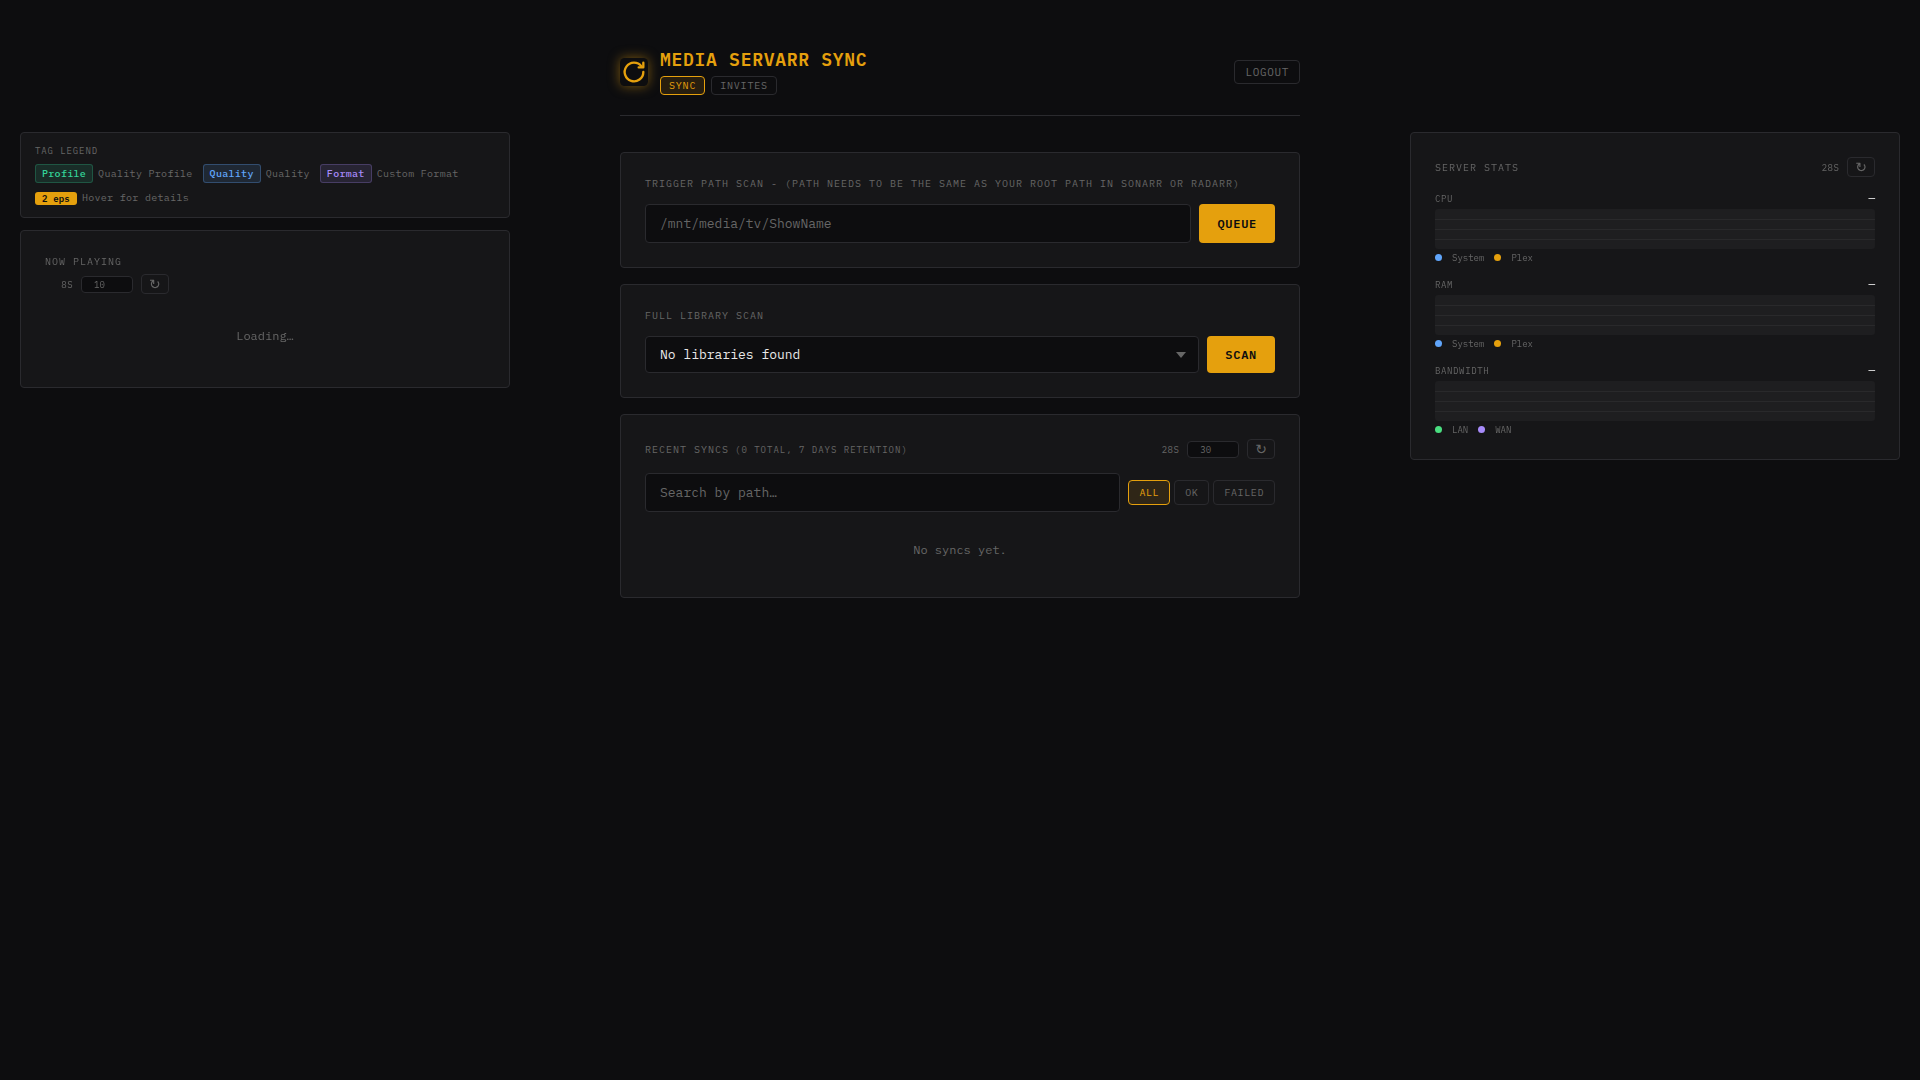
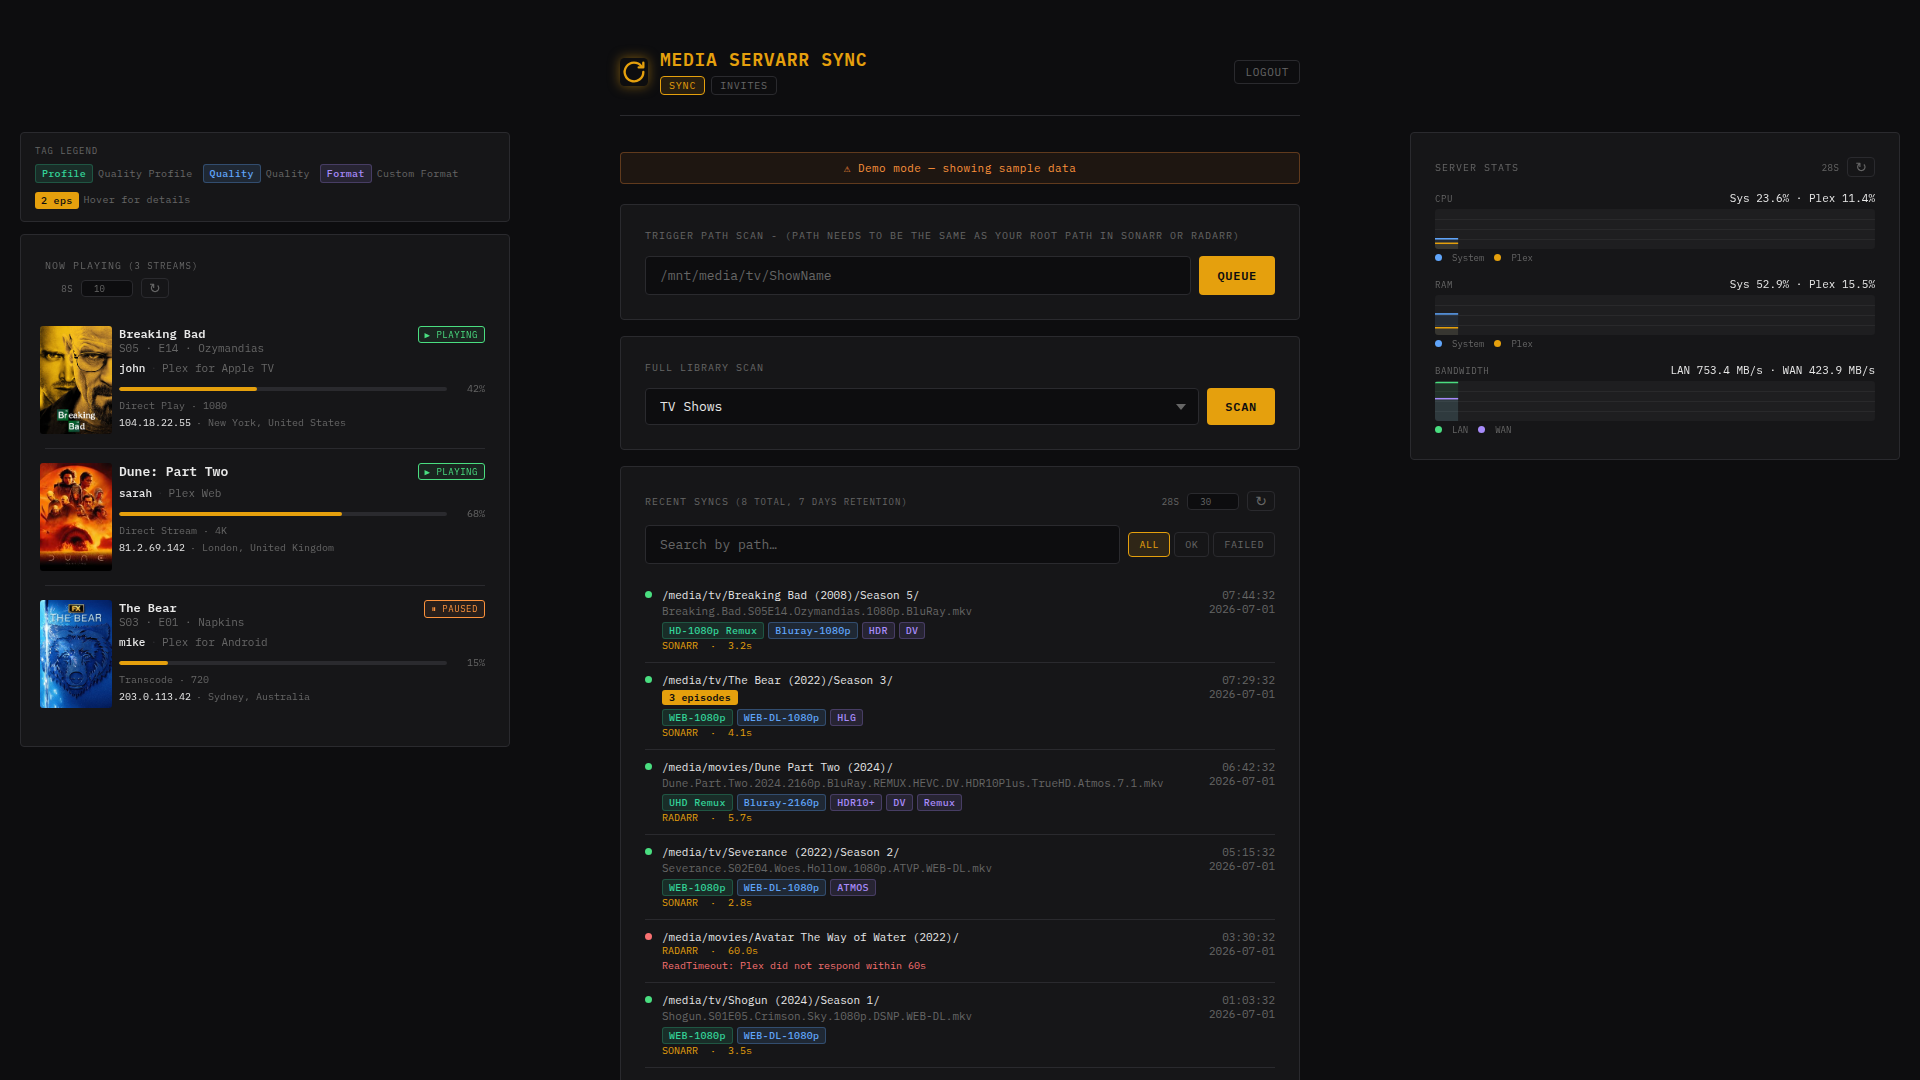
Refresh screenshots with demo data; align legend badge sizing
- Retake dashboard/invites screenshots using DEMO_MODE (/login/demo) instead
  of an empty unauthenticated instance, so they show representative content
- Add dashboard_wide.png showing the wide-desktop sidebar layout (legend +
  Now Playing on the left, Server Stats charts on the right)
- Legend: the '2 eps' episode-count-badge example now shares the same
  padding/font-size as the other tag swatches (.legend-swatch.episode-count-badge)
  instead of being visibly smaller

Claude-Session: https://claude.ai/code/session_01AKyhbZqP5xGzDEENpn1gdo

diff --git a/templates/manual_ui.html b/templates/manual_ui.html
@@ -439,6 +439,11 @@
     letter-spacing: 0.03em;
     white-space: nowrap;
   }
+  .legend-swatch.episode-count-badge {
+    padding: 2px 6px;
+    font-size: 10px;
+    font-weight: 500;
+  }
   @media (max-width: 1000px) { .legend { display: none; } }
 
   /* Inline legend for mobile — horizontal pill row */
@@ -802,7 +807,7 @@
       <span class="legend-label">Custom Format</span>
     </div>
     <div class="legend-item">
-      <span class="episode-count-badge" style="pointer-events:none;font-size:9px;">2 eps</span>
+      <span class="legend-swatch episode-count-badge" style="pointer-events:none;">2 eps</span>
       <span class="legend-label">Hover for details</span>
     </div>
   </div>